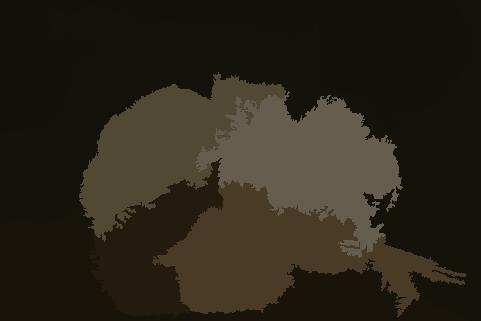
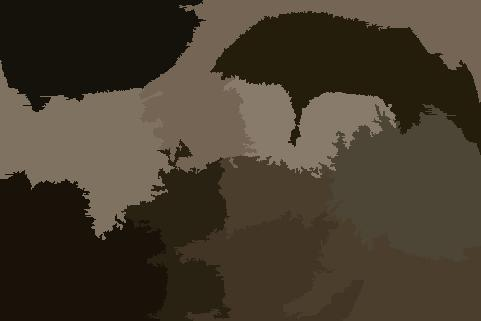
Can now make children populations

diff --git a/task2/src/Population.java b/task2/src/Population.java
@@ -1,6 +1,5 @@
 import java.awt.*;
 import java.awt.image.BufferedImage;
-import java.lang.reflect.Array;
 import java.util.ArrayList;
 import java.util.Collections;
 import java.util.HashSet;
@@ -11,20 +10,23 @@ public class Population {
     private ArrayList<Node> closedList = new ArrayList<>();
     private ArrayList<Individual> individuals;
 
-    public Individual getChildIndividual() {
-        return childIndividual;
-    }
-
-    public void setChildIndividual(Individual childIndividual) {
-        this.childIndividual = childIndividual;
-    }
-
-    private Individual childIndividual;
-
-    public Population(BufferedImage img, int numCentroids){
+    public Population(BufferedImage img, int numCentroids, int numIndividuals){
         individuals = new ArrayList<>();
-        createIndividuals(img, numCentroids, 10);
+        createRandomIndividuals(img, numCentroids, numIndividuals);
+        setRanks();
+        sortIndividuals();
+        ArrayList<Individual> fronts = selectFronts(numIndividuals);
+        this.individuals = reduceFronts(fronts, numIndividuals);
 
+
+    }
+
+    public Population(BufferedImage img, int numCentroids, ArrayList<Individual> individuals){
+        runIndividuals(img, numCentroids, individuals);
+        setRanks();
+        sortIndividuals();
+        ArrayList<Individual> fronts = selectFronts(individuals.size());
+        this.individuals = reduceFronts(fronts, individuals.size());
     }
 
     public ArrayList<Individual> getIndividuals() {
@@ -35,33 +37,17 @@ public class Population {
         this.individuals = individuals;
     }
 
-    private void createIndividuals(BufferedImage img, int numCentroids, int numIndividuals){
-        for (int i = 0; i < 3*numIndividuals; i++) {
-            ArrayList<ArrayList<Node>> nodes = initNodes(img);
-
-            ArrayList<Centroid> centroids = initCentroids(img, numCentroids);
-            ArrayList<Node> startNodes = getStartNodes(centroids, nodes);
-            ArrayList<SearchPath> searches = initSearches(startNodes);
-            boolean runMore = true;
-            while(runMore) {
-                runMore = false;
-                for (int j = 0; j < searches.size(); j++) {
-                    if(searches.get(j).runOneStep(closedList, img, centroids.get(j), nodes)){
-                        runMore = true;
-                    }
-                }
-            }
-            Helpers.setAvgColor(centroids);
-
-            this.individuals.add(new Individual(centroids));
-        }
-
+    private void setRanks(){
         for(Individual i : this.individuals){
             setRank(i);
         }
+    }
 
+    private void sortIndividuals(){
         Collections.sort(this.individuals);
+    }
 
+    private ArrayList<Individual> selectFronts(int numIndividuals){
         ArrayList<Individual> acceptedIndividuals = new ArrayList<>();
 
         int rankCounter = 1;
@@ -79,35 +65,58 @@ public class Population {
             }
             rankCounter++;
         }
+        return acceptedIndividuals;
+    }
 
-        ArrayList<Individual> final_individuals = Helpers.crowdingDistance(acceptedIndividuals, numIndividuals); //Reduce number of individuals from 2N to N=numIndividuals
-        this.individuals = final_individuals;
-        Random r = new Random();
+    private ArrayList<Individual> reduceFronts(ArrayList<Individual> fronts, int numIndividuals){
+        return Helpers.crowdingDistance(fronts, numIndividuals); //Reduce number of individuals from 2N to N=numIndividuals
+    }
 
-        //TODO: Ensure that we cannot get the same two individuals
-        Individual crossover_individual_a = Helpers.tournamentSelection(this.individuals.get(r.nextInt(this.individuals.size())), this.individuals.get(r.nextInt(this.individuals.size())));
-        Individual crossover_individual_b = Helpers.tournamentSelection(this.individuals.get(r.nextInt(this.individuals.size())), this.individuals.get(r.nextInt(this.individuals.size())));
+    private void createRandomIndividuals(BufferedImage img, int numCentroids, int numIndividuals){
+        for (int i = 0; i < 3*numIndividuals; i++) {
+            ArrayList<ArrayList<Node>> nodes = initNodes(img);
 
+            ArrayList<Centroid> centroids = initCentroids(img, numCentroids);
+            ArrayList<Node> startNodes = getStartNodes(centroids, nodes);
+            ArrayList<SearchPath> searches = initSearches(startNodes);
 
-        setChildIndividual(GA.crossover(crossover_individual_a, crossover_individual_b, img));
+            dijkstra(img, nodes, searches, centroids);
 
+            Helpers.setAvgColor(centroids);
 
-        ArrayList<ArrayList<Node>> nodes = initNodes(img);
+            this.individuals.add(new Individual(centroids));
+        }
 
+    }
 
-        ArrayList<Node> startNodes = getStartNodes(this.getChildIndividual().getCentroids(), nodes);
-        ArrayList<SearchPath> searches = initSearches(startNodes);
+    private void runIndividuals(BufferedImage img, int numCentroids, ArrayList<Individual> individuals) {
+        for (int i = 0; i < individuals.size(); i++) {
+            Individual currentIndividual = individuals.get(i);
+
+            ArrayList<ArrayList<Node>> nodes = initNodes(img);
+
+            ArrayList<Node> startNodes = getStartNodes(currentIndividual.getCentroids(), nodes);
+            ArrayList<SearchPath> searches = initSearches(startNodes);
+
+            dijkstra(img, nodes, searches, currentIndividual.getCentroids());
+            Helpers.setAvgColor(currentIndividual.getCentroids());
+        }
+        this.individuals = individuals;
+    }
+
+    private void dijkstra(BufferedImage img, ArrayList<ArrayList<Node>> nodes, ArrayList<SearchPath> searches,  ArrayList<Centroid> centroids){
         boolean runMore = true;
         while(runMore) {
             runMore = false;
             for (int j = 0; j < searches.size(); j++) {
-                if(searches.get(j).runOneStep(closedList, img, this.getChildIndividual().getCentroids().get(j), nodes)){
+                if(searches.get(j).runOneStep(closedList, img, centroids.get(j), nodes)){
                     runMore = true;
                 }
             }
         }
-        Helpers.setAvgColor(this.getChildIndividual().getCentroids());
     }
+
+
 
     public ArrayList<Individual> getAllIndividualsOfRankN(int n){
         ArrayList<Individual> returned_individuals = new ArrayList<Individual>();

diff --git a/task2/src/Main.java b/task2/src/Main.java
@@ -20,33 +20,21 @@ public class Main {
          */
         String path = "1";
         int numCentroids = 10;
-        int numPopulations = 3;
+        int numPopulations = 20;
+        int numIndividuals = 20;
 
 
         BufferedImage img = readImage(path);
 
 
-        ArrayList<Population> populations = new ArrayList<>();
+        Population population = new Population(img, numCentroids, numIndividuals);
+
 
         for (int i = 0; i < numPopulations; i++) {
-            populations.add(new Population(img, numCentroids));
+            population = new Population(img, numCentroids, GA.doGA(img, population));
         }
 
-        /*
-        for(Population p : populations) {
-            for (Individual i : p.getIndividuals()) {
-                for (Centroid c : i.getCentroids()) {
-                    for (Node n : c.getcurrentlyAssignedNodes()) {
-                        img = changeImage(img, n, c);
-                    }
-                }
-            }
-        }
-        */
-
-        Individual ind = populations.get(0).getChildIndividual();
-
-        for(Centroid c : ind.getCentroids()){
+        for (Centroid c : population.getIndividuals().get(0).getCentroids()) {
             for (Node n : c.getcurrentlyAssignedNodes()) {
                 img = changeImage(img, n, c);
             }
@@ -61,7 +49,7 @@ public class Main {
     static BufferedImage readImage(String path) {
         BufferedImage img = null;
         try {
-            img = ImageIO.read(new File(String.format("/Users/agnetedjupvik/Desktop/Skolearbeid/8. semester/Bio-AI/bioAI/task2/src/TestImages/3/Test image.jpg", path)));
+            img = ImageIO.read(new File("TestImages/"+path+"/Test image.jpg"));
 
         } catch (IOException e) {
             e.printStackTrace();
@@ -70,7 +58,7 @@ public class Main {
     }
 
     static void writeImage(String path, BufferedImage img) {
-        File outputfile = new File("/Users/agnetedjupvik/Desktop/Skolearbeid/8. semester/Bio-AI/bioAI/task2/src/OutFiles/3.jpg");
+        File outputfile = new File("OutFiles/"+path+".jpg");
         try {
             ImageIO.write(img, "jpg", outputfile);
         } catch (IOException e) {

diff --git a/task2/src/GA.java b/task2/src/GA.java
@@ -1,6 +1,7 @@
 import java.awt.*;
 import java.awt.image.BufferedImage;
 import java.util.ArrayList;
+import java.util.Random;
 
 public class GA {
     public static Individual crossover(Individual a, Individual b, BufferedImage img){
@@ -16,5 +17,30 @@ public class GA {
             newCentroids.add(new Centroid(new_x, new_y, c));
         }
         return new Individual(newCentroids);
+    }
+
+    public static Individual tournamentSelection(Individual a, Individual b){
+        if (a.getRank() == b.getRank()){
+            return a.getCrowdingDistance() > b.getCrowdingDistance() ? a : b;
+        } else {
+            return a.getRank() > b.getRank() ? a: b;
+        }
+
+    }
+
+    public static ArrayList<Individual> doGA(BufferedImage img, Population parentPopulation){
+        ArrayList<Individual> parents = parentPopulation.getIndividuals();
+        ArrayList<Individual> children = new ArrayList<>();
+
+        for (int i = 0; i < parents.size(); i++) {
+            Random r = new Random();
+
+            //TODO: Ensure that we cannot get the same two individuals
+            Individual crossover_individual_a = GA.tournamentSelection(parents.get(r.nextInt(parents.size())), parents.get(r.nextInt(parents.size())));
+            Individual crossover_individual_b = GA.tournamentSelection(parents.get(r.nextInt(parents.size())), parents.get(r.nextInt(parents.size())));
+
+            children.add(GA.crossover(crossover_individual_a, crossover_individual_b, img));
+        }
+        return children;
     }
 }

diff --git a/task2/src/Helpers.java b/task2/src/Helpers.java
@@ -69,14 +69,6 @@ public abstract class Helpers {
         return new ArrayList<Individual>(individuals.subList(0, num_individuals_to_keep));
     }
 
-    public static Individual tournamentSelection(Individual a, Individual b){
-        if (a.getRank() == b.getRank()){
-            return a.getCrowdingDistance() > b.getCrowdingDistance() ? a : b;
-        } else {
-            return a.getRank() > b.getRank() ? a: b;
-        }
-
-    }
 
     static double ColorEuclideanDistance(Color c0, Color c1) {
         return Math.sqrt((Math.pow(c0.getRed()- c1.getRed(), 2)) + (Math.pow(c0.getGreen() - c1.getGreen(), 2)) + (Math.pow(c0.getBlue()- c1.getBlue(), 2)));

diff --git a/task2/src/Individual.java b/task2/src/Individual.java
@@ -39,8 +39,6 @@ public class Individual implements Comparable<Individual>{
     }
 
 
-
-
     /*
    We want to minimize this
     */
